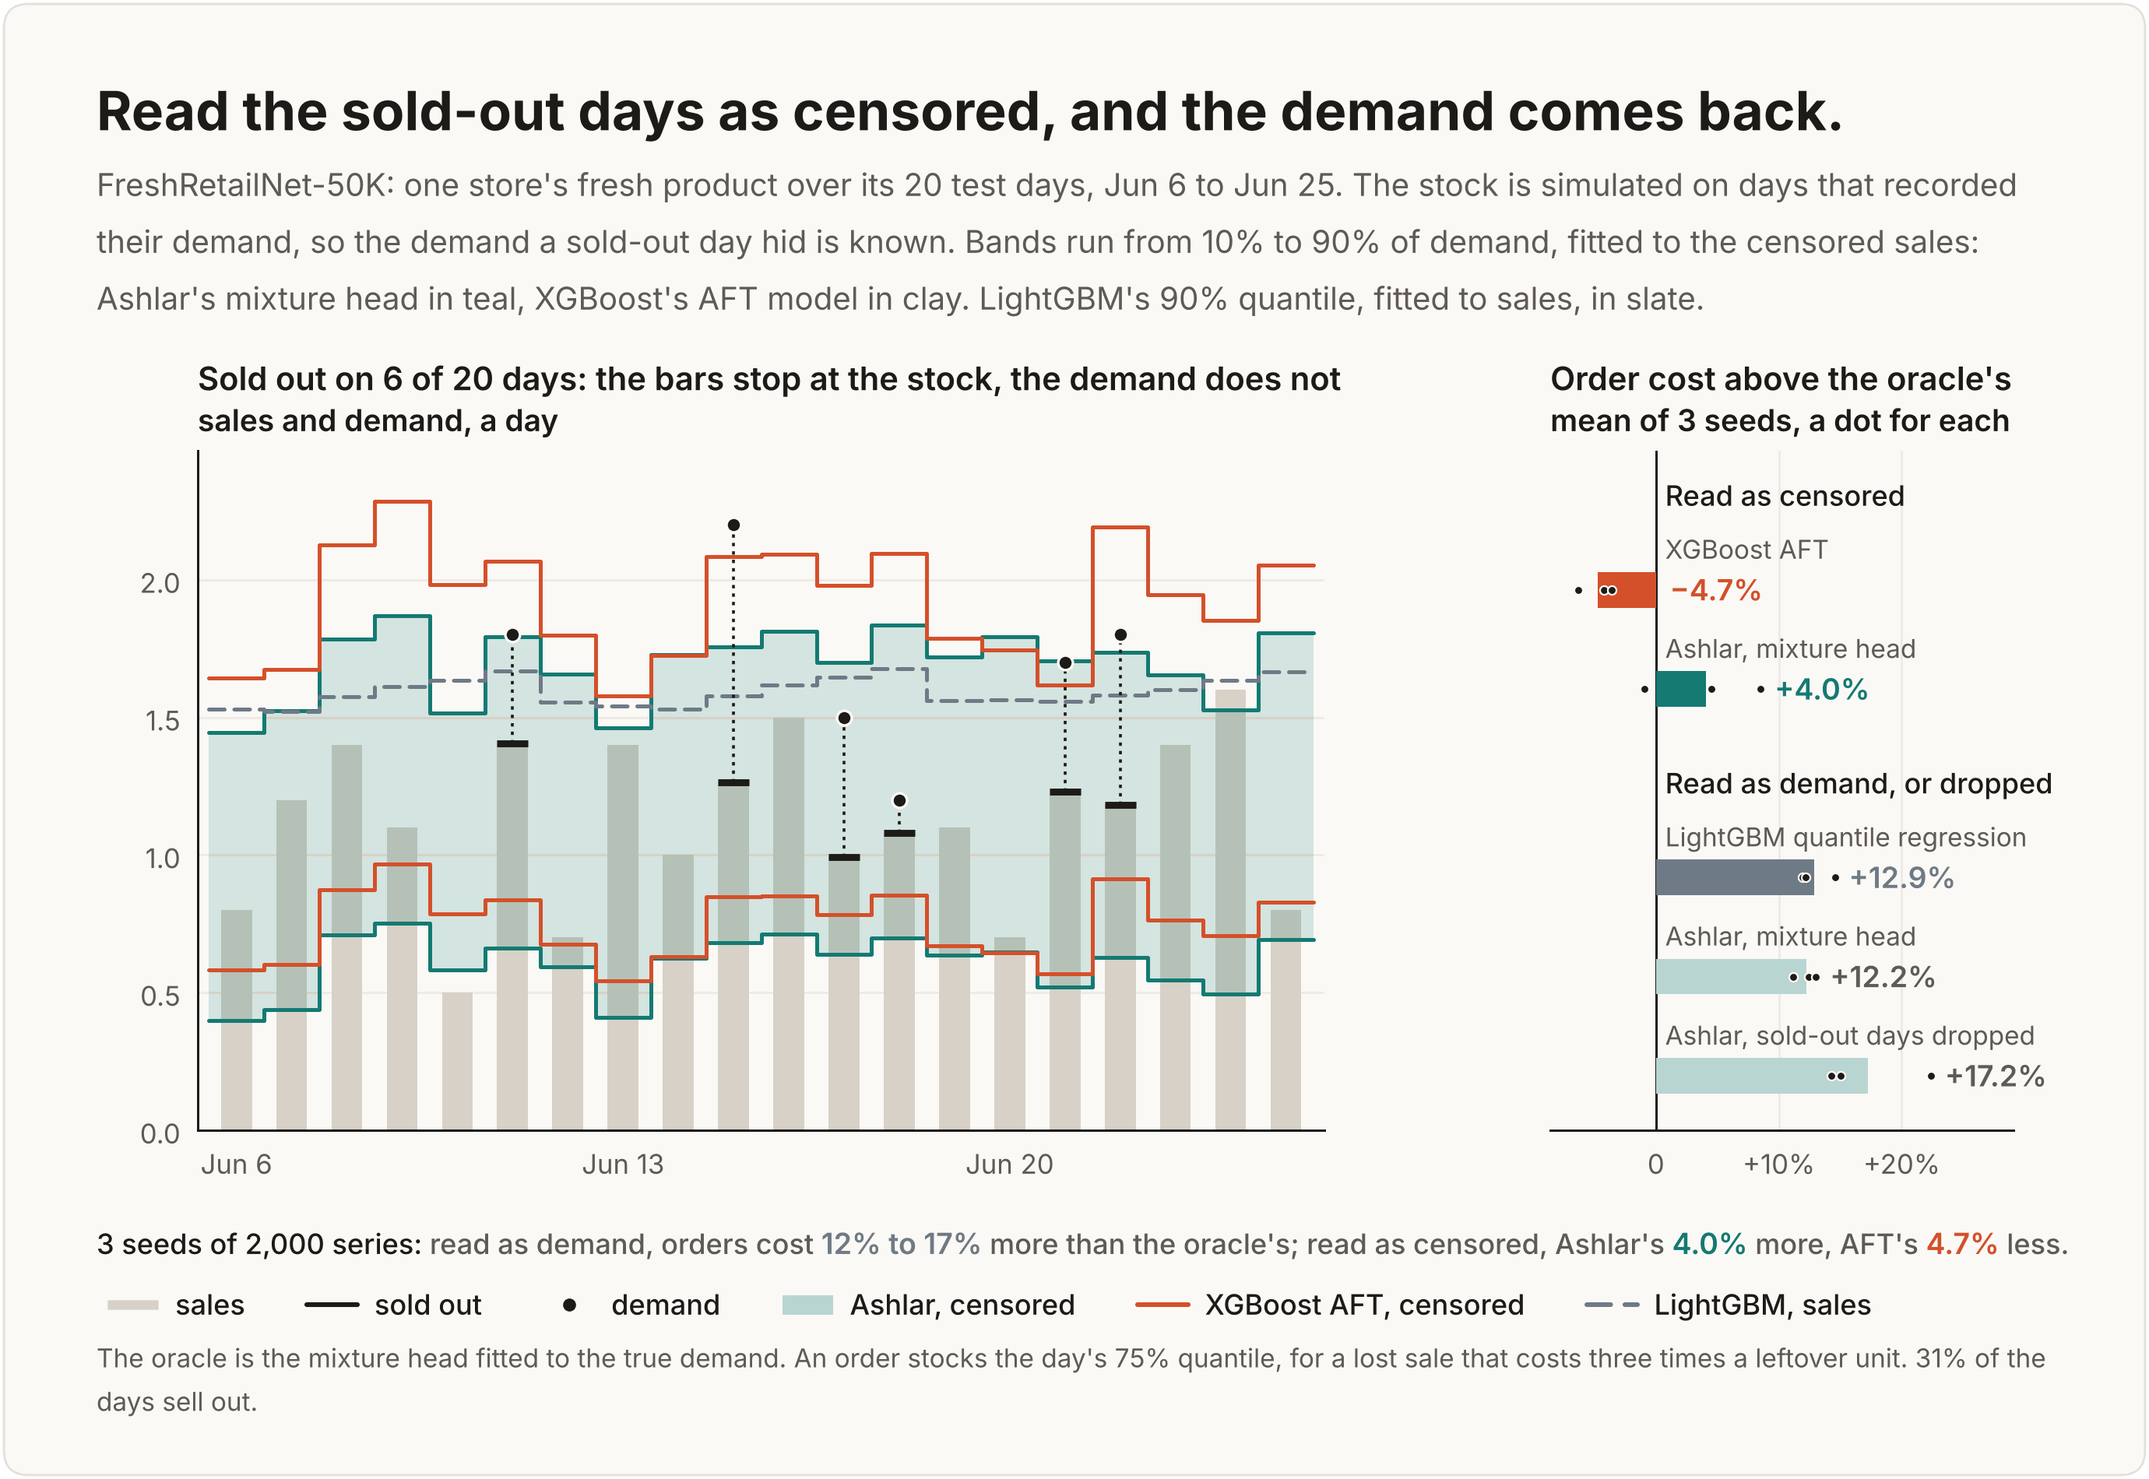
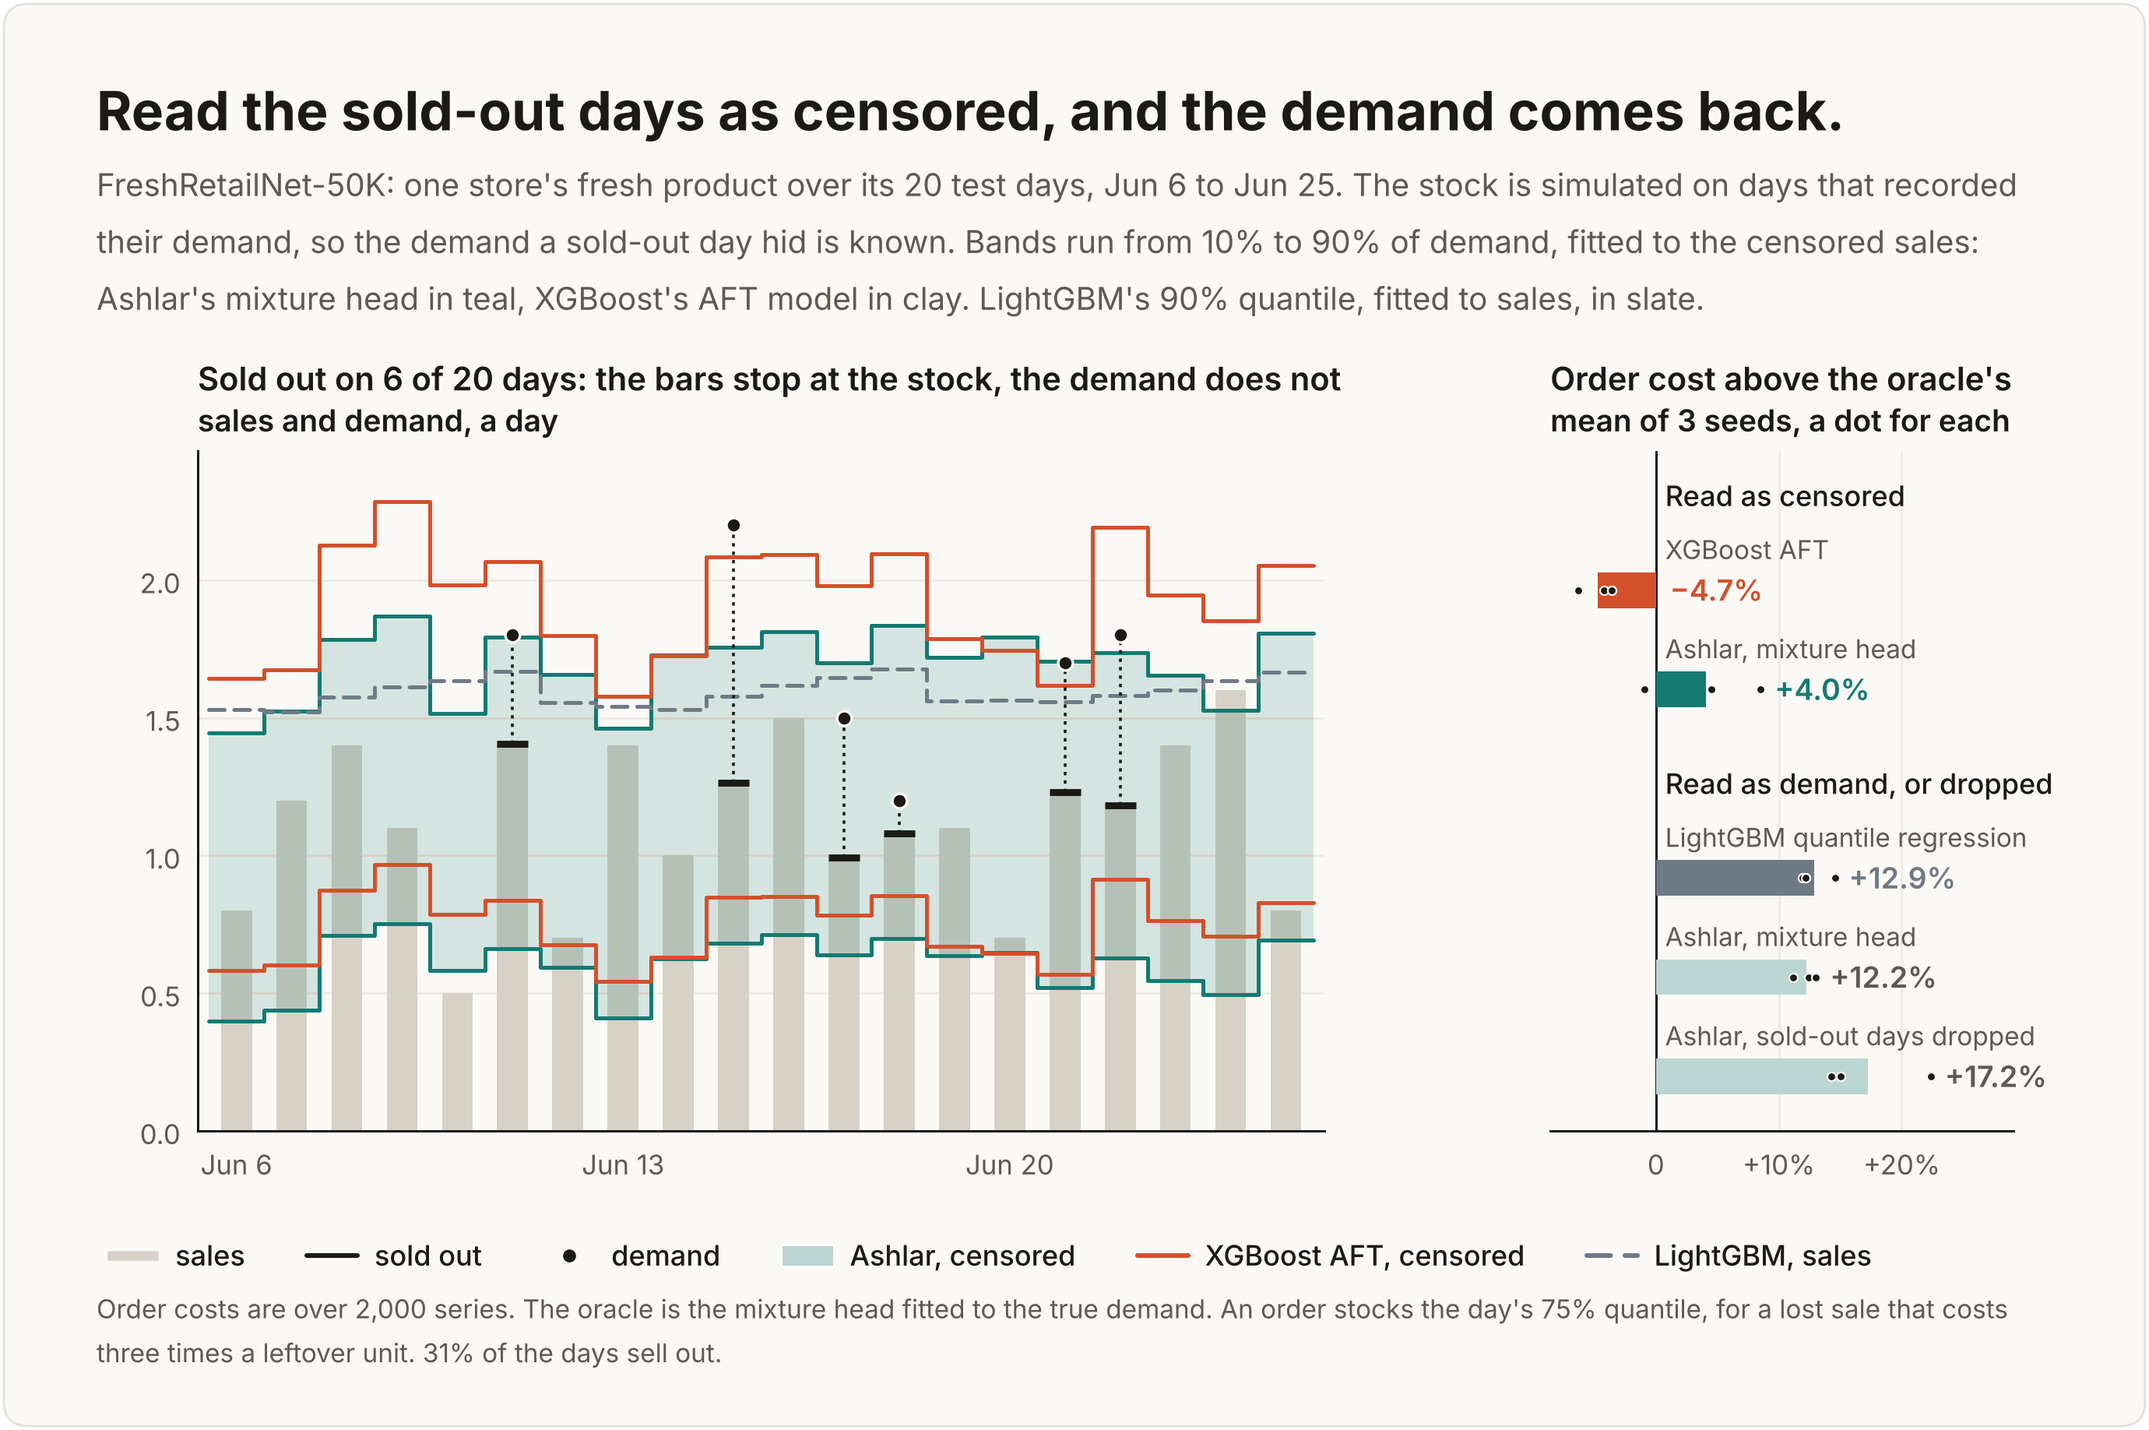
README survival and sold-out figures: one mention per number; docs on trees and meter readings
From the fresh-eyes review of the reimagined README:
- survival.png: the title says what the left panels show, without the
  split count, and the summary line of scores is gone; the README's prose
  quotes them once, from the main table of docs/benchmarks.md.
- sold-out.png: the summary line is gone (the inset keeps its bar labels);
  the footnote says the costs are over 2,000 series.
- docs/benchmarks.md: XGBoost's AFT objective is not "the one tree that
  reads censoring"; the survival figure's subsection says which table the
  README quotes; the meter readings spread evenly have the better CRPS.
- docs/observed.md: the same point on the meter readings, with the NLL.

Claude-Session: https://claude.ai/code/session_01Ut1RAmhrqz8hcuYnwmhWKF

diff --git a/examples/readme/survival.py b/examples/readme/survival.py
@@ -231,13 +231,13 @@ def draw() -> None:
     days = np.asarray(figure["days"], float)
     patients = figure["patients"]
     fig = k.card(
-        f"Each patient gets a curve of its own shape, calibrated on {mixture['passing']} of {mixture['splits']} splits.",
+        "Each patient gets a curve of its own shape, not a shifted copy.",
         f"SUPPORT: {k.num(data['patients'])} seriously ill patients, {data['features']} features, "
         f"{k.pct(data['died'])} died during follow-up. Five test patients of one 80/20 split, A to E by the "
         "mixture's chance of living a year: × is a death, ○ a patient alive when last seen. The mixture head "
         "fitted to censored log times, against XGBoost's AFT model tuned on a 42-fit grid.",
-        height=8.9,
-        footer=2,
+        height=8.58,
+        footer=1,
     )
     axes = k.panels(fig, 1, 3, widths=[1.1, 1.1, 0.9], wspace=0.5, head=0.75, tail=1.1, rpad=0.42)
     _curves(axes[0, 0], days, patients, "mixture", _ramp(k.TEAL, len(patients)), k.TEAL, "Ashlar, mixture head")
@@ -264,21 +264,7 @@ def draw() -> None:
     ax.plot([0.02, 0.085], [0.79, 0.79], transform=ax.transAxes, color=k.INK, lw=1.3, linestyle=(0, (4, 3)))
     ax.text(0.105, 0.79, "10%, if calibrated", transform=ax.transAxes, fontproperties=k.F.small, color=k.INK,
             ha="left", va="center")
-    box = fig.box
-    k.rich(fig, box.left / box.width, (0.34 + 0.32 + 0.1) / box.height,
-           [("Five splits: ", k.INK, k.F.label),
-            (f"{mixture['passing']} of {mixture['splits']}", k.TEAL, k.F.value),
-            (" pass D-calibration, against ", k.MUTED, k.F.label),
-            (f"{aft['passing']} of {aft['splits']}", k.CLAY, k.F.value),
-            ("; NLL of the log time ", k.MUTED, k.F.label),
-            (f"{mixture['nll_mean']:.3f}", k.TEAL, k.F.value),
-            (" against ", k.MUTED, k.F.label),
-            (f"{aft['nll_mean']:.3f}", k.CLAY, k.F.value),
-            ("; concordance a tie, ", k.MUTED, k.F.label),
-            (f"{mixture['c_index_mean']:.3f}", k.TEAL, k.F.value),
-            (" and ", k.MUTED, k.F.label),
-            (f"{aft['c_index_mean']:.3f}", k.CLAY, k.F.value),
-            (".", k.MUTED, k.F.label)], va="bottom")
+    # The five splits' scores are the README's prose, quoted once there from docs/benchmarks.md.
     k.footnote(fig, f"Ashlar's curves cross for {k.pct(figure['crossing']['mixture'])} of pairs of "
                     f"{figure['crossing']['rows']} test patients. AFT's never cross: every patient gets one error "
                     "family with one spread, shifted along log time.")

diff --git a/examples/readme/sold_out.py b/examples/readme/sold_out.py
@@ -340,8 +340,8 @@ def draw() -> None:
         f"to {when(days['day'][-1])}. The stock is simulated on days that recorded their demand, so the demand a "
         "sold-out day hid is known. Bands run from 10% to 90% of demand, fitted to the censored sales: Ashlar's "
         "mixture head in teal, XGBoost's AFT model in clay. LightGBM's 90% quantile, fitted to sales, in slate.",
-        height=9.5,
-        footer=4,
+        height=9.18,
+        footer=3,
     )
     left, right = k.panels(fig, 1, 2, widths=[2.1, 1.0], wspace=0.55, head=0.75, tail=0.62, rpad=0.25)[0]
 
@@ -353,18 +353,7 @@ def draw() -> None:
     k.panel_title(left, f"Sold out on {sold} of {len(days['day'])} days: the bars stop at the stock, the demand does not")
     _costs(right, k, costs, seeds)
 
-    by = {label + (" censored" if row < 2 else ""): values.mean() for row, (label, *_, values) in enumerate(costs)}
-    demand_read = [values.mean() for row, (*_, values) in enumerate(costs) if row >= 2]
-    box = fig.box
-    k.rich(fig, box.left / box.width, (0.34 + 3 * 0.32 + 0.1) / box.height,
-           [(f"{len(seeds)} seeds of 2,000 series: ", k.INK, k.F.label),
-            ("read as demand, orders cost ", k.MUTED, k.F.label),
-            (f"{min(demand_read):.0f}% to {max(demand_read):.0f}%", k.SLATE, k.F.value),
-            (" more than the oracle's; read as censored, Ashlar's ", k.MUTED, k.F.label),
-            (f"{by['Ashlar, mixture head censored']:.1f}%", k.TEAL, k.F.value),
-            (" more, AFT's ", k.MUTED, k.F.label),
-            (f"{abs(by['XGBoost AFT censored']):.1f}%", k.CLAY, k.F.value),
-            (" less." if by["XGBoost AFT censored"] < 0 else " more.", k.MUTED, k.F.label)], va="bottom")
+    # The three seeds' costs are printed on the inset's bars and quoted once in the README's prose.
     k.legend_row(
         fig,
         [("bar", k.DATA, "sales"), ("line", k.INK, "sold out"), ("dot", k.INK, "demand"),
@@ -372,8 +361,9 @@ def draw() -> None:
          ("dashed", k.SLATE, "LightGBM, sales")],
         line=2,
     )
-    k.footnote(fig, "The oracle is the mixture head fitted to the true demand. An order stocks the day's 75% quantile, "
-                    "for a lost sale that costs three times a leftover unit. 31% of the days sell out.")
+    k.footnote(fig, "Order costs are over 2,000 series. The oracle is the mixture head fitted to the true demand. An "
+                    "order stocks the day's 75% quantile, for a lost sale that costs three times a leftover unit. "
+                    "31% of the days sell out.")
     k.save(fig, "sold-out")
 
 

diff --git a/docs/benchmarks.md b/docs/benchmarks.md
@@ -1020,7 +1020,7 @@ XGBoost's CPU seconds are for its grid of 42 fits. One fit at the setting the gr
 
 #### The README's survival figure
 
-[`examples/readme/survival.py`](../examples/readme/survival.py) reruns the five SUPPORT splits for the README's figure on the current code, in a cloud container with 4 CPUs: the `mixture` head and XGBoost AFT on its 42-fit grid, split and scored as above. The results match the table. The mixture's NLL of the log time is 1.733 ± 0.018 against AFT's 1.874 ± 0.010, its concordance 0.623 ± 0.009 against 0.623 ± 0.010, and its integrated Brier score 0.1998 ± 0.0033 against 0.2049 ± 0.0033. It passes D-calibration on 4 of 5 splits, with a χ² of 12.8 ± 5.1, against 0 of 5 and 46.9 ± 12.0 for AFT.
+[`examples/readme/survival.py`](../examples/readme/survival.py) reruns the five SUPPORT splits for the README's figure on the current code, in a cloud container with 4 CPUs: the `mixture` head and XGBoost AFT on its 42-fit grid, split and scored as above. The results match the table. The mixture's NLL of the log time is 1.733 ± 0.018 against AFT's 1.874 ± 0.010, its concordance 0.623 ± 0.009 against 0.623 ± 0.010, and its integrated Brier score 0.1998 ± 0.0033 against 0.2049 ± 0.0033. It passes D-calibration on 4 of 5 splits, with a χ² of 12.8 ± 5.1, against 0 of 5 and 46.9 ± 12.0 for AFT. The README's figure draws this rerun, and its prose quotes the table above, which also has the Cox model.
 
 On the first split the script also reads every test patient's survival curve over five years. The mixture's curves cross, each lying at least 0.02 above the other somewhere, for 38% of the pairs among 400 test patients. AFT's never cross: each patient's curve is the same error family with the same spread, shifted along log time, so one patient's risk is above another's at every time or at none.
 
@@ -1075,7 +1075,7 @@ XGBoost's accelerated failure time model reads a censored label as a lower and a
 
 The grid chose a shift of 1, normal errors, and a spread of 0.2 on every seed, with depth 3 on two seeds and 6 on the third. One fit at its choice took 4.5 CPU seconds of the grid's 565.
 
-- **The one tree that reads censoring is ahead on this table.** Its orders cost 4.7% less than the mixture oracle's, less on every seed (3.6% to 6.3%), against 4.0% more for the censored `mixture` and 5.2% more for the censored `hurdle` on the same yardstick. Its CRPS is 7% below the censored mixture's, and its 90% quantile is above the true demand on 87.8% of days against 81.3%. Its NLL, 5.285, is level with the censored `hurdle`'s 5.280 and 0.09 nats ahead of the censored mixture's.
+- **XGBoost's AFT objective, which reads censored labels too, is ahead on this table.** Its orders cost 4.7% less than the mixture oracle's, less on every seed (3.6% to 6.3%), against 4.0% more for the censored `mixture` and 5.2% more for the censored `hurdle` on the same yardstick. Its CRPS is 7% below the censored mixture's, and its 90% quantile is above the true demand on 87.8% of days against 81.3%. Its NLL, 5.285, is level with the censored `hurdle`'s 5.280 and 0.09 nats ahead of the censored mixture's.
 - **The gap is not the censoring.** XGBoost's censored fit also beats Ashlar's fits to the true demand, whose CRPS is 0.283 to 0.284, so on these features its trees predict demand better than Ashlar's default network does, censored or not. Reading the sold-out days as censored is what both need: every fit that reads them as demand, or drops them, orders at a cost 12% to 19% above its oracle's.
 - **Its grid costs about five Ashlar fits, and one tuned fit costs a twenty-fifth of one**: 565 CPU seconds for 132 fits, against 111 to 119 for each censored Ashlar fit, and 4.5 for one fit at the setting the grid chose.
 
@@ -1093,7 +1093,7 @@ The daily load of the eight electricity clients of [the joint demand benchmark](
 
 - **From readings 2 to 12 days apart, the model learns the days nearly as well as from the days.** Its CRPS is 19.0 MWh against the oracle's 18.0, and its weekday profile is off by 2.9% against 2.0%. Its NLL is even a little lower, as it is less sure: its 80% interval holds 90% of the held-out days, the oracle's 63%, and the held-out blocks are not the training blocks.
 - **Weekly totals cannot place the load within the week, and the fit makes up a pattern.** Every way of splitting a week between its days fits the week's total equally well, and the fit settles on a weekday profile that is off by 11.9%, worse than the flat profile of a fit to the totals spread evenly (2.6%). Its RMSE is 52.9 MWh against the oracle's 35.3.
-- **Spreading a total evenly gets these means right and the spread wrong.** These clients' loads differ little between weekdays, so an even split is close to the truth: its RMSE matches the oracle's and its weekday profile is off by 2.5% to 2.6%. But a total spread over its days is much smoother than the days, so the model learns too small a spread: its 80% interval holds 43% to 47% of days, and its NLL is 6.3 to 7.8. In [the simulation](#daily-values-from-weekly-totals), where the days of a week differ, the even split gets the means wrong as well.
+- **Spreading a total evenly gets these means right and the spread wrong.** These clients' loads differ little between weekdays, so an even split is close to the truth: its RMSE matches the oracle's and its weekday profile is off by 2.5% to 2.6%. Spread evenly, the irregular readings even score a better CRPS than with `observed.total`, 18.4 MWh against 19.0. But a total spread over its days is much smoother than the days, so the model learns too small a spread: its 80% interval holds 43% to 47% of days, and its NLL is 6.3 to 7.8. In [the simulation](#daily-values-from-weekly-totals), where the days of a week differ, the even split gets the means wrong as well.
 
 ## Joint demand across locations
 

diff --git a/docs/observed.md b/docs/observed.md
@@ -199,7 +199,7 @@ The Poisson head learns from the totals almost all that the days would have taug
 
 What totals can teach is limited by what varies between groups. If every week holds one Monday, one Tuesday, and so on, every weekly sum contains the same weekday pattern, so the sums cannot tell a busy Monday from a busy Tuesday. The head learns the effects of features that change from week to week, and nothing about a pattern that repeats inside every group. The spread is harder to place than the mean, since a sum's variance blends its rows' variances.
 
-Real meter data show both sides. On the daily load of eight electricity clients over three years, a fit to each calendar week's total does not just miss the weekday pattern, it makes one up: every split of a week between its days fits the total equally well, and the one it settles on puts each weekday's load, as a share of the client's mean day, off by 12%. These clients' weekdays differ little, so a fit to each total spread evenly, which learns every weekday the same, is off by only 2.6%, and its daily means are closer. Readings taken at irregular intervals of 2 to 12 days start on any weekday, so they do pin the pattern down: fitted to them with `observed.total`, the head learns the days nearly as well as from the days themselves, with a CRPS of 19.0 MWh against 18.0 and weekday shares off by 2.9% against 2.0%. The same readings spread evenly get the means about right and the spread far too narrow: their 80% interval holds 47% of the held-out days. [docs/benchmarks.md](benchmarks.md#daily-loads-from-meter-readings) has the table.
+Real meter data show both sides. On the daily load of eight electricity clients over three years, a fit to each calendar week's total does not just miss the weekday pattern, it makes one up: every split of a week between its days fits the total equally well, and the one it settles on puts each weekday's load, as a share of the client's mean day, off by 12%. These clients' weekdays differ little, so a fit to each total spread evenly, which learns every weekday the same, is off by only 2.6%, and its daily means are closer. Readings taken at irregular intervals of 2 to 12 days start on any weekday, so they do pin the pattern down: fitted to them with `observed.total`, the head learns the days nearly as well as from the days themselves, with a CRPS of 19.0 MWh against 18.0 and weekday shares off by 2.9% against 2.0%. The same readings spread evenly get the daily means a little closer, a CRPS of 18.4 MWh, but learn a spread far too narrow: their 80% interval holds 47% of the held-out days, and their NLL is 6.28 against 4.90 with `observed.total`. [docs/benchmarks.md](benchmarks.md#daily-loads-from-meter-readings) has the table.
 
 Heads whose sum has no closed form take totals too: the `mixture`, `flow`, `histogram`, and `student_t` heads, the `negative_binomial`, and a zero-inflated `poisson`. Each row's distribution is put on a grid of 512 bins centred on its mean, 2,048 whole-number bins for a count, the rows of a group are convolved by FFT, and the total's probability is read off the result, so any head with a CDF can learn from sums. A total of up to six rows matches the exact sum of normals to 10⁻³ nats, and a total of one count row is its own mass. A group with a single row uses that row's own likelihood. Truncation divides out as for a single row; noise on a grid total is refused. On 600 simulated weeks of seven negative binomial days, fitted to weekly totals only, the daily means came out with a correlation of 0.98 with the truth.
 
